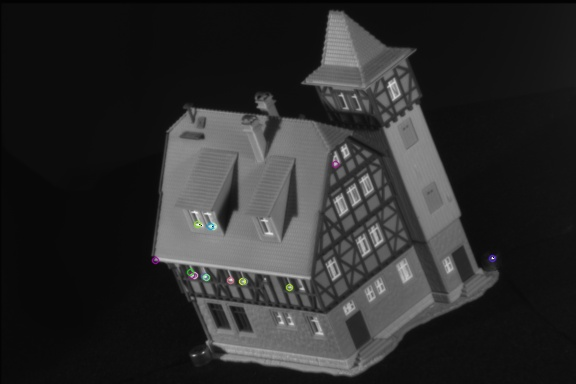
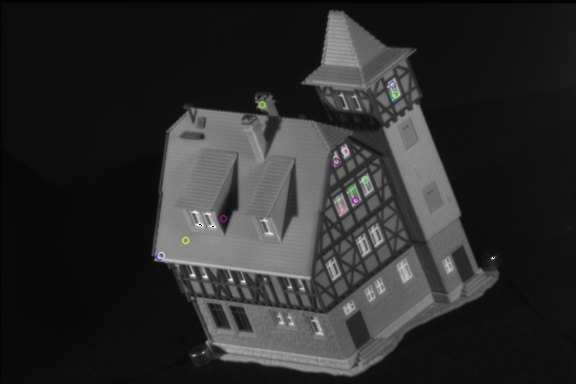
minor changes

diff --git a/framework/main.py b/framework/main.py
@@ -1,7 +1,6 @@
 from math import sqrt, pow, exp
 import numpy as np
 from numpy import linalg as LA
-import matplotlib.pyplot as plt
 import cv2
 import itertools
 
@@ -68,8 +67,8 @@ def get_features(img, limit=10, outname="sample.jpg", show=False):
     '''
         img should be gray
     '''
-    detector = cv2.FeatureDetector_create('ORB')
-    descriptor = cv2.DescriptorExtractor_create('ORB')
+    detector = cv2.FeatureDetector_create('SURF')
+    descriptor = cv2.DescriptorExtractor_create('SURF')
     kp = detector.detect(img)
     # getting most relevant points
     kp = sorted(kp, key=lambda x: x.response, reverse=True)
@@ -172,19 +171,19 @@ def similarity_angles(e1, e2, kpts1, kpts2, sigma=0.5):
     angles1 and angles2 are those formed by the first and second triangle,
     respecvitly, we'll choose the best case scenario for the sum of sin
     '''
+    print "\n\n# =========================================================== #"
     sin1 = get_angles_sin(e1, kpts1)
     sin2 = get_angles_sin(e2, kpts2)
 
     perms = itertools.permutations(sin1)
     diffs = [sum(np.abs(np.subtract(s, sin2))) for s in perms]
-    sum_diff_between_sin = min(diffs)
-    similarity = exp(-sum_diff_between_sin / sigma)
+    min_diff_between_sin = min(diffs)
+    similarity = exp(-min_diff_between_sin / sigma)
 
-    print "\n\n# =========================================================== #"
     print "sin 1: {}".format(sin1)
     print "sin 2: {}".format(sin2)
     print
-    print "sum_diff_between_sin: {}".format(sum_diff_between_sin)
+    print "sum_diff_between_sin: {}".format(min_diff_between_sin)
     print "similarity: {}".format(similarity)
 
     return similarity
@@ -196,19 +195,20 @@ def match_hyperedges(E1, E2, kpts1, kpts2):
     '''
     E1, E2: hyperedges lists of img1 and img2, respectly
     '''
-    sigma = 0.01
+    sigma = 0.5
     indices_taken = []
     matches = []
     for i, e_i in enumerate(E1):
         best_index = -1
         max_similarity = -1
         for j, e_j in enumerate(E2):
-            # similarity = exp(-( pow(LA.norm(e_i[3] - e_j[3]), 2) / sigma ))
-            similarity = similarity_angles(e_j, e_i, kpts1, kpts2, sigma)
-            if similarity > max_similarity and j not in indices_taken:
-                max_similarity = similarity
-                best_index = j
-        matches.append((i, best_index))
+            if j not in indices_taken:
+                # similarity = exp(-(pow(LA.norm(e_i[3] - e_j[3]), 2) / sigma))
+                similarity = similarity_angles(e_i, e_j, kpts1, kpts2, sigma)
+                if similarity > max_similarity:
+                    max_similarity = similarity
+                    best_index = j
+        matches.append((i, best_index, max_similarity))
         indices_taken.append(best_index)
     return matches
 
@@ -252,9 +252,12 @@ def draw_edges_match(matches, kp1, kp2, E1, E2, img1, img2):
         print (x1_1, y1_1)
         print (x2_1, y2_1)
         print (x3_1, y3_1)
+        print
         print (x1_2, y1_2)
         print (x2_2, y2_2)
         print (x3_2, y3_2)
+        print
+        print "similarity: {}".format(mat[2])
         # cv2.line(out, (int(x1), int(y1)), (int(x2) + cols1, int(y2)),
         # (102, 255, 255), 1)
         # cv2.namedWindow('Matching', cv2.WINDOW_NORMAL)
@@ -264,16 +267,10 @@ def draw_edges_match(matches, kp1, kp2, E1, E2, img1, img2):
     return out
 
 
-# def delete_copies(K, des):
-#     s = set()
-#     for i, k, d in enumerate(K, des):
-#
-
-
 if __name__ == "__main__":
     M = 15
     img1 = cv2.imread('./house.seq0.png')
-    img2 = cv2.imread('./house.seq27.png')
+    img2 = cv2.imread('./house.seq0.trans.png')
     # convert to gray
     img1_gray = cv2.cvtColor(img1, cv2.COLOR_BGR2GRAY)
     img2_gray = cv2.cvtColor(img2, cv2.COLOR_BGR2GRAY)
